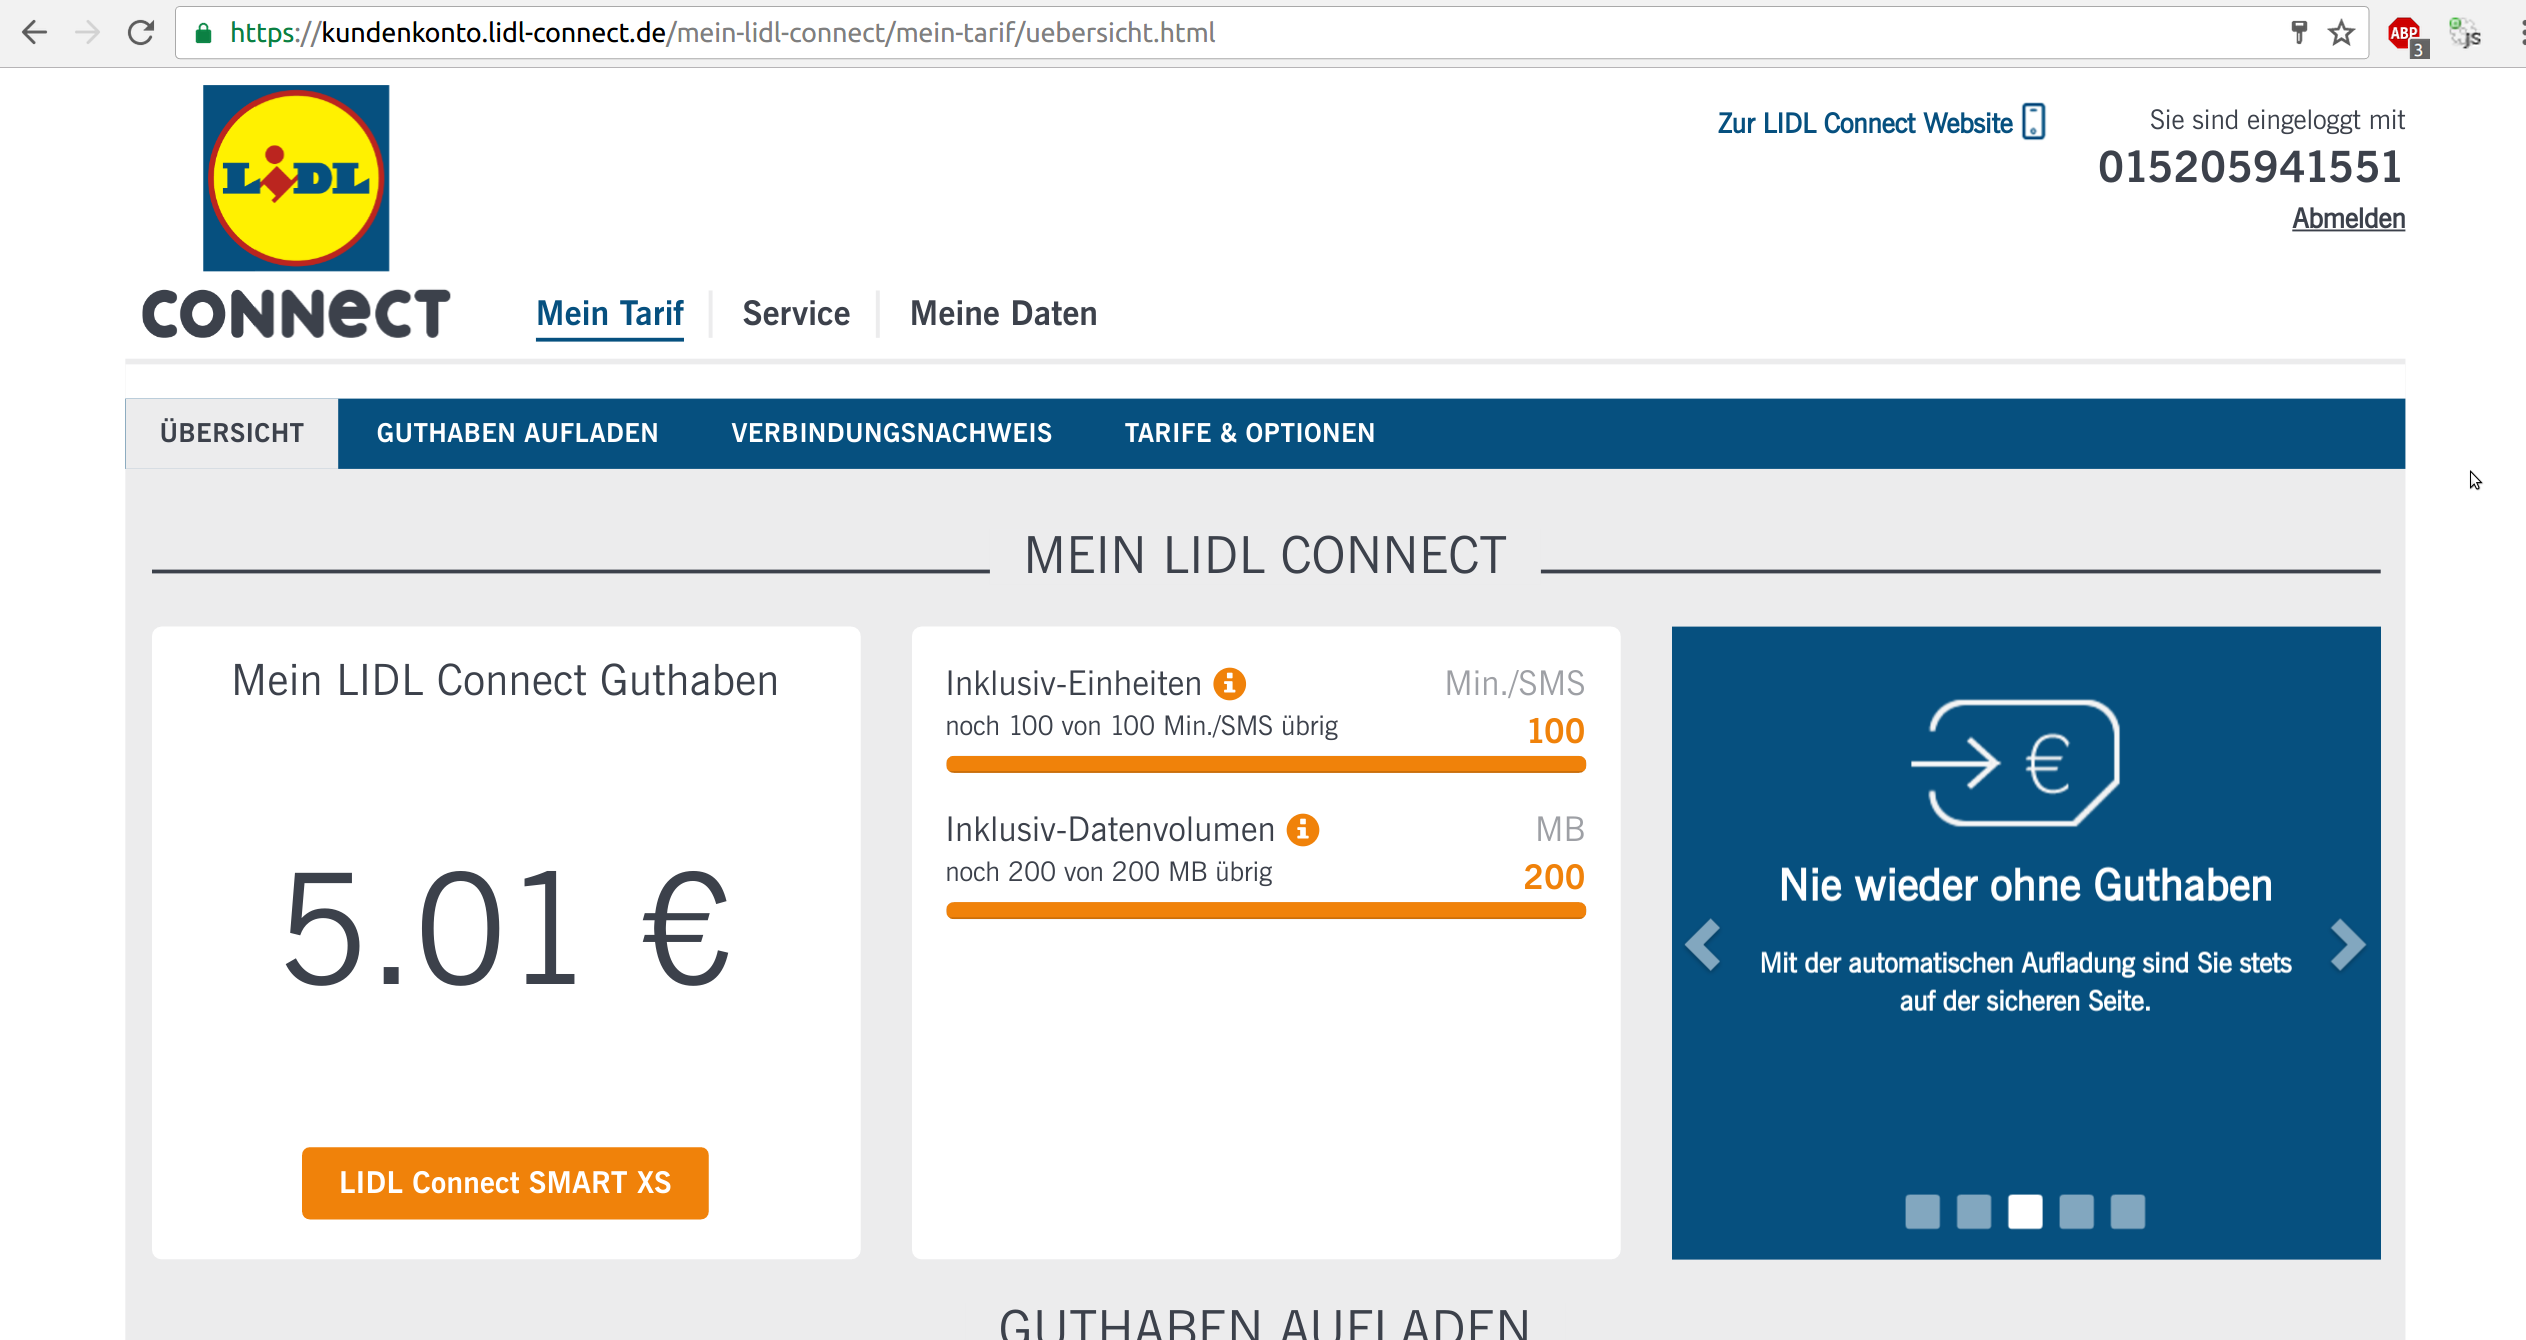
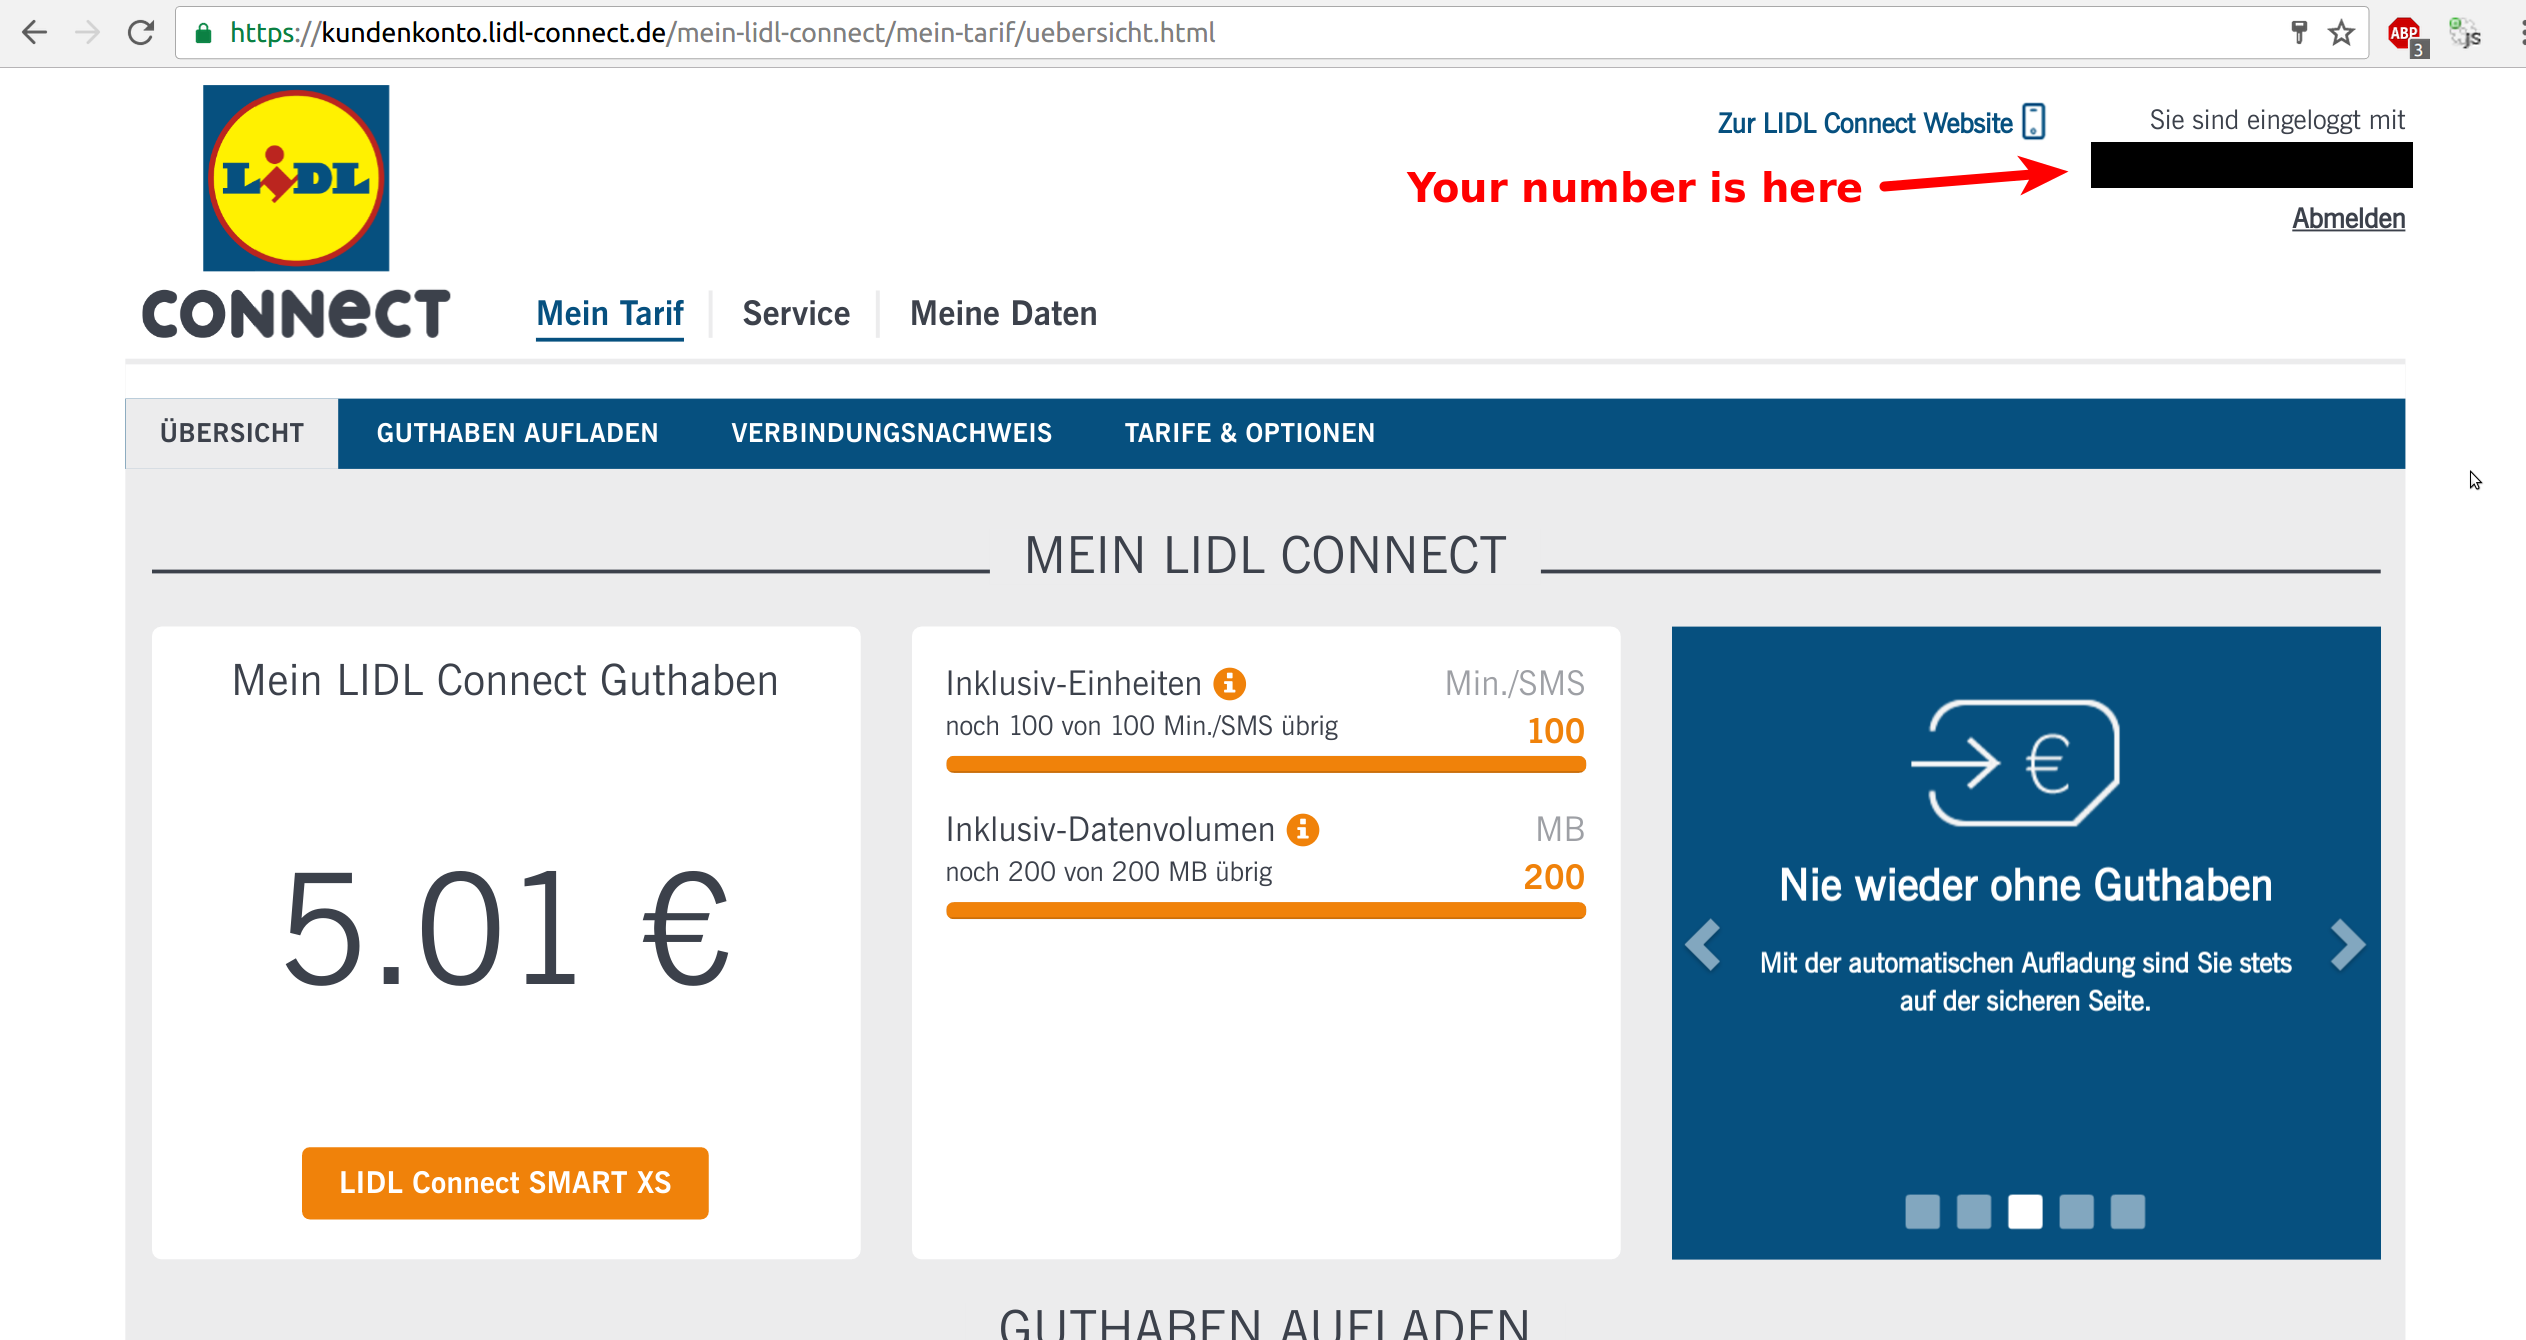
Update Lidl connect article

Changed region(s): [[0.5558, 0.0918, 0.9572, 0.153]]

diff --git a/_posts/2017-02-10-lidl-connect.md b/_posts/2017-02-10-lidl-connect.md
@@ -39,6 +39,14 @@ providers of pre-paid cards are:
 4. You can login at [https://kundenkonto.lidl-connect.de/](kundenkonto.lidl-connect.de)
 
 
+## User Interface
+
+<figure class="wp-caption aligncenter img-thumbnail">
+    <img src="https://martin-thoma.com/images/2016/12/lidl-connect-kunden.png" alt="User Interface of Lidl Connect" />
+    <figcaption class="text-center">User Interface of Lidl Connect</figcaption>
+</figure>
+
+
 ## Switching from Blau.de to Lidl
 
 As Simyo recently was changed into blau.de, I am a customer of Blau.de.
